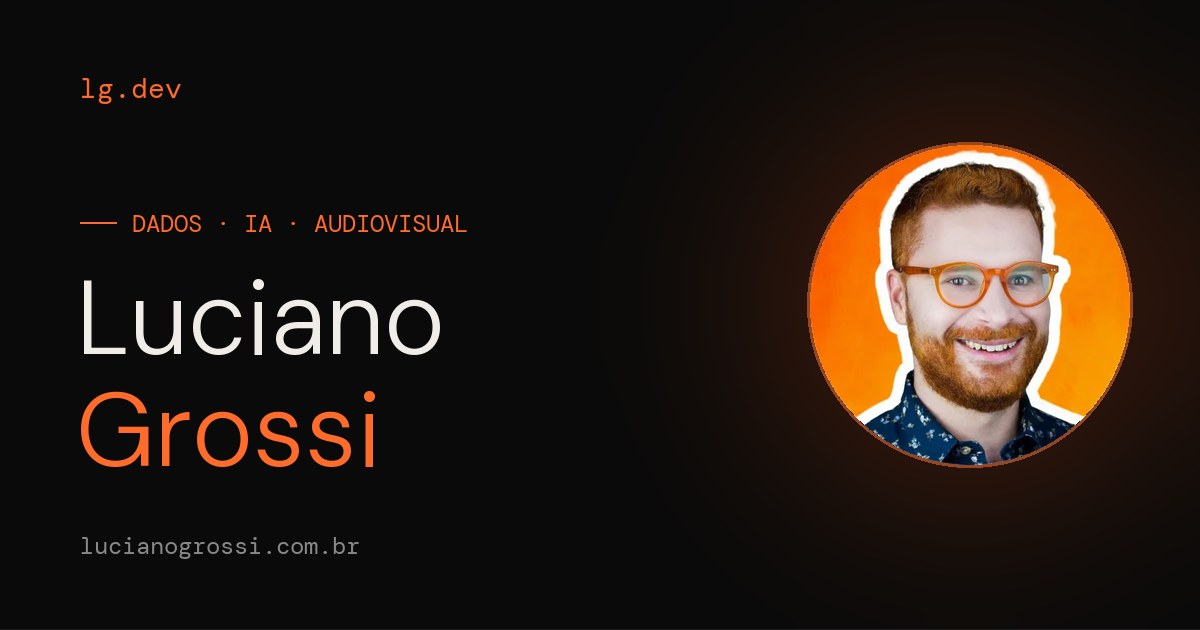
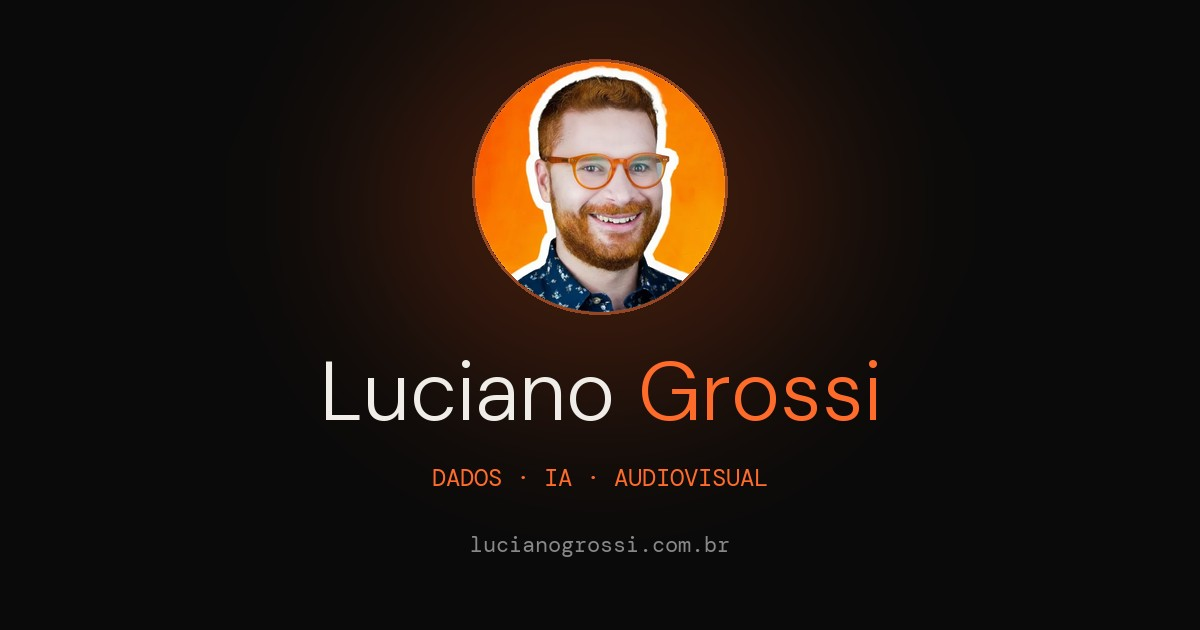
fix: share image survives square crop; home description no longer repeats the name

diff --git a/index.html b/index.html
@@ -5,15 +5,15 @@
   <meta charset="UTF-8">
   <meta name="viewport" content="width=device-width, initial-scale=1.0">
   <title>Luciano Grossi</title>
-  <meta name="description" content="Luciano Grossi, Coordenador Adjunto de Dados e Informação na ANEEL. Artigos, ferramentas e projetos sobre dados, IA, Web3, OSINT e audiovisual.">
+  <meta name="description" content="Coordenador Adjunto de Dados e Informação na ANEEL. Artigos, ferramentas e projetos sobre dados, IA, Web3, OSINT e audiovisual.">
   <link rel="canonical" href="https://lucianogrossi.com.br/">
   <meta property="og:type" content="website">
   <meta property="og:site_name" content="Luciano Grossi">
   <meta property="og:locale" content="pt_BR">
   <meta property="og:title" content="Luciano Grossi">
-  <meta property="og:description" content="Luciano Grossi, Coordenador Adjunto de Dados e Informação na ANEEL. Artigos, ferramentas e projetos sobre dados, IA, Web3, OSINT e audiovisual.">
+  <meta property="og:description" content="Coordenador Adjunto de Dados e Informação na ANEEL. Artigos, ferramentas e projetos sobre dados, IA, Web3, OSINT e audiovisual.">
   <meta property="og:url" content="https://lucianogrossi.com.br/">
-  <meta property="og:image" content="https://lucianogrossi.com.br/imagens/compartilhar.jpg">
+  <meta property="og:image" content="https://lucianogrossi.com.br/imagens/compartilhar.jpg?v=2">
   <meta property="og:image:width" content="1200">
   <meta property="og:image:height" content="630">
   <meta property="og:image:alt" content="Luciano Grossi · Dados, IA e audiovisual">

diff --git a/artigos/curtas-com-ia/index.html b/artigos/curtas-com-ia/index.html
@@ -12,7 +12,7 @@
 <meta property="og:title" content="Fazer um curta com IA · Série Curtas com IA">
 <meta property="og:description" content="Série de nove artigos sobre como fazer um curta-metragem com inteligência artificial: do roteiro à entrega, passando por direção de arte, decupagem, vídeo, montagem e som.">
 <meta property="og:url" content="https://lucianogrossi.com.br/artigos/curtas-com-ia/">
-<meta property="og:image" content="https://lucianogrossi.com.br/imagens/compartilhar.jpg">
+<meta property="og:image" content="https://lucianogrossi.com.br/imagens/compartilhar.jpg?v=2">
 <meta property="og:image:width" content="1200">
 <meta property="og:image:height" content="630">
 <meta property="og:image:alt" content="Luciano Grossi · Dados, IA e audiovisual">

diff --git a/venca-os-mitos-que-sabotam-sua-carreira/index.html b/venca-os-mitos-que-sabotam-sua-carreira/index.html
@@ -12,7 +12,7 @@
 <meta property="og:title" content="Vença os Mitos que Sabotam sua Carreira">
 <meta property="og:description" content="Vença os Mitos que Sabotam sua Carreira, livro de Luciano Grossi sobre os mitos que mantêm as pessoas infelizes no trabalho e como superá-los.">
 <meta property="og:url" content="https://lucianogrossi.com.br/venca-os-mitos-que-sabotam-sua-carreira/">
-<meta property="og:image" content="https://lucianogrossi.com.br/imagens/compartilhar.jpg">
+<meta property="og:image" content="https://lucianogrossi.com.br/imagens/compartilhar.jpg?v=2">
 <meta property="og:image:width" content="1200">
 <meta property="og:image:height" content="630">
 <meta property="og:image:alt" content="Luciano Grossi · Dados, IA e audiovisual">

diff --git a/osint/index.html b/osint/index.html
@@ -10,7 +10,7 @@
 <meta property="og:title" content="Kit de Ferramentas OSINT">
 <meta property="og:description" content="Catálogo de ferramentas de OSINT (Inteligência de Fontes Abertas) organizado por categoria, com busca: buscadores, imagens, metadados, redes sociais, GEOINT e mais.">
 <meta property="og:url" content="https://lucianogrossi.com.br/osint/">
-<meta property="og:image" content="https://lucianogrossi.com.br/imagens/compartilhar.jpg">
+<meta property="og:image" content="https://lucianogrossi.com.br/imagens/compartilhar.jpg?v=2">
 <meta property="og:image:width" content="1200">
 <meta property="og:image:height" content="630">
 <meta property="og:image:alt" content="Luciano Grossi · Dados, IA e audiovisual">

diff --git a/artigos/osint/index.html b/artigos/osint/index.html
@@ -12,7 +12,7 @@
 <meta property="og:title" content="O que as fontes abertas revelam · Série OSINT">
 <meta property="og:description" content="Série de oito artigos sobre OSINT: o que as fontes abertas revelam sobre pessoas e empresas, e como reduzir a própria exposição.">
 <meta property="og:url" content="https://lucianogrossi.com.br/artigos/osint/">
-<meta property="og:image" content="https://lucianogrossi.com.br/imagens/compartilhar.jpg">
+<meta property="og:image" content="https://lucianogrossi.com.br/imagens/compartilhar.jpg?v=2">
 <meta property="og:image:width" content="1200">
 <meta property="og:image:height" content="630">
 <meta property="og:image:alt" content="Luciano Grossi · Dados, IA e audiovisual">

diff --git a/gerador-link-whatsapp/index.html b/gerador-link-whatsapp/index.html
@@ -12,7 +12,7 @@
 <meta property="og:title" content="Gerador de Link do WhatsApp">
 <meta property="og:description" content="Crie um link direto para qualquer número do WhatsApp, com ou sem mensagem pronta. Grátis e sem armazenar nenhum dado.">
 <meta property="og:url" content="https://lucianogrossi.com.br/gerador-link-whatsapp/">
-<meta property="og:image" content="https://lucianogrossi.com.br/imagens/compartilhar.jpg">
+<meta property="og:image" content="https://lucianogrossi.com.br/imagens/compartilhar.jpg?v=2">
 <meta property="og:image:width" content="1200">
 <meta property="og:image:height" content="630">
 <meta property="og:image:alt" content="Luciano Grossi · Dados, IA e audiovisual">

diff --git a/contador-caracteres/index.html b/contador-caracteres/index.html
@@ -12,7 +12,7 @@
 <meta property="og:title" content="Contador de Caracteres">
 <meta property="og:description" content="Conte caracteres, palavras e linhas e veja quanto ainda cabe em posts do LinkedIn, X, Instagram, Facebook, Threads e YouTube.">
 <meta property="og:url" content="https://lucianogrossi.com.br/contador-caracteres/">
-<meta property="og:image" content="https://lucianogrossi.com.br/imagens/compartilhar.jpg">
+<meta property="og:image" content="https://lucianogrossi.com.br/imagens/compartilhar.jpg?v=2">
 <meta property="og:image:width" content="1200">
 <meta property="og:image:height" content="630">
 <meta property="og:image:alt" content="Luciano Grossi · Dados, IA e audiovisual">

diff --git a/pizza-day/index.html b/pizza-day/index.html
@@ -12,7 +12,7 @@
 <meta property="og:title" content="Bitcoin Pizza Day">
 <meta property="og:description" content="22 de maio de 2010: 10.000 bitcoins por duas pizzas. Veja quanto essa compra valeria hoje, com a cotação do bitcoin ao vivo.">
 <meta property="og:url" content="https://lucianogrossi.com.br/pizza-day/">
-<meta property="og:image" content="https://lucianogrossi.com.br/imagens/compartilhar.jpg">
+<meta property="og:image" content="https://lucianogrossi.com.br/imagens/compartilhar.jpg?v=2">
 <meta property="og:image:width" content="1200">
 <meta property="og:image:height" content="630">
 <meta property="og:image:alt" content="Luciano Grossi · Dados, IA e audiovisual">

diff --git a/snake/index.html b/snake/index.html
@@ -12,7 +12,7 @@
 <meta property="og:title" content="Jogo da Cobrinha">
 <meta property="og:description" content="O jogo da cobrinha no estilo do Nokia 3310, para jogar no navegador com as setas, WASD ou os botões na tela.">
 <meta property="og:url" content="https://lucianogrossi.com.br/snake/">
-<meta property="og:image" content="https://lucianogrossi.com.br/imagens/compartilhar.jpg">
+<meta property="og:image" content="https://lucianogrossi.com.br/imagens/compartilhar.jpg?v=2">
 <meta property="og:image:width" content="1200">
 <meta property="og:image:height" content="630">
 <meta property="og:image:alt" content="Luciano Grossi · Dados, IA e audiovisual">

diff --git a/artigos/index.html b/artigos/index.html
@@ -12,7 +12,7 @@
 <meta property="og:title" content="Artigos">
 <meta property="og:description" content="Artigos de Luciano Grossi sobre dados, privacidade, OSINT e audiovisual com inteligência artificial.">
 <meta property="og:url" content="https://lucianogrossi.com.br/artigos/">
-<meta property="og:image" content="https://lucianogrossi.com.br/imagens/compartilhar.jpg">
+<meta property="og:image" content="https://lucianogrossi.com.br/imagens/compartilhar.jpg?v=2">
 <meta property="og:image:width" content="1200">
 <meta property="og:image:height" content="630">
 <meta property="og:image:alt" content="Luciano Grossi · Dados, IA e audiovisual">

diff --git a/artigos/curtas-com-ia/movimentos-de-camera/index.html b/artigos/curtas-com-ia/movimentos-de-camera/index.html
@@ -14,7 +14,7 @@
 <meta property="og:url" content="https://lucianogrossi.com.br/artigos/curtas-com-ia/movimentos-de-camera/">
 <meta property="article:published_time" content="2026-10-10">
 <meta property="article:author" content="Luciano Grossi">
-<meta property="og:image" content="https://lucianogrossi.com.br/imagens/compartilhar.jpg">
+<meta property="og:image" content="https://lucianogrossi.com.br/imagens/compartilhar.jpg?v=2">
 <meta property="og:image:width" content="1200">
 <meta property="og:image:height" content="630">
 <meta property="og:image:alt" content="Luciano Grossi · Dados, IA e audiovisual">

diff --git a/artigos/curtas-com-ia/direcao-de-arte/index.html b/artigos/curtas-com-ia/direcao-de-arte/index.html
@@ -14,7 +14,7 @@
 <meta property="og:url" content="https://lucianogrossi.com.br/artigos/curtas-com-ia/direcao-de-arte/">
 <meta property="article:published_time" content="2026-10-10">
 <meta property="article:author" content="Luciano Grossi">
-<meta property="og:image" content="https://lucianogrossi.com.br/imagens/compartilhar.jpg">
+<meta property="og:image" content="https://lucianogrossi.com.br/imagens/compartilhar.jpg?v=2">
 <meta property="og:image:width" content="1200">
 <meta property="og:image:height" content="630">
 <meta property="og:image:alt" content="Luciano Grossi · Dados, IA e audiovisual">
